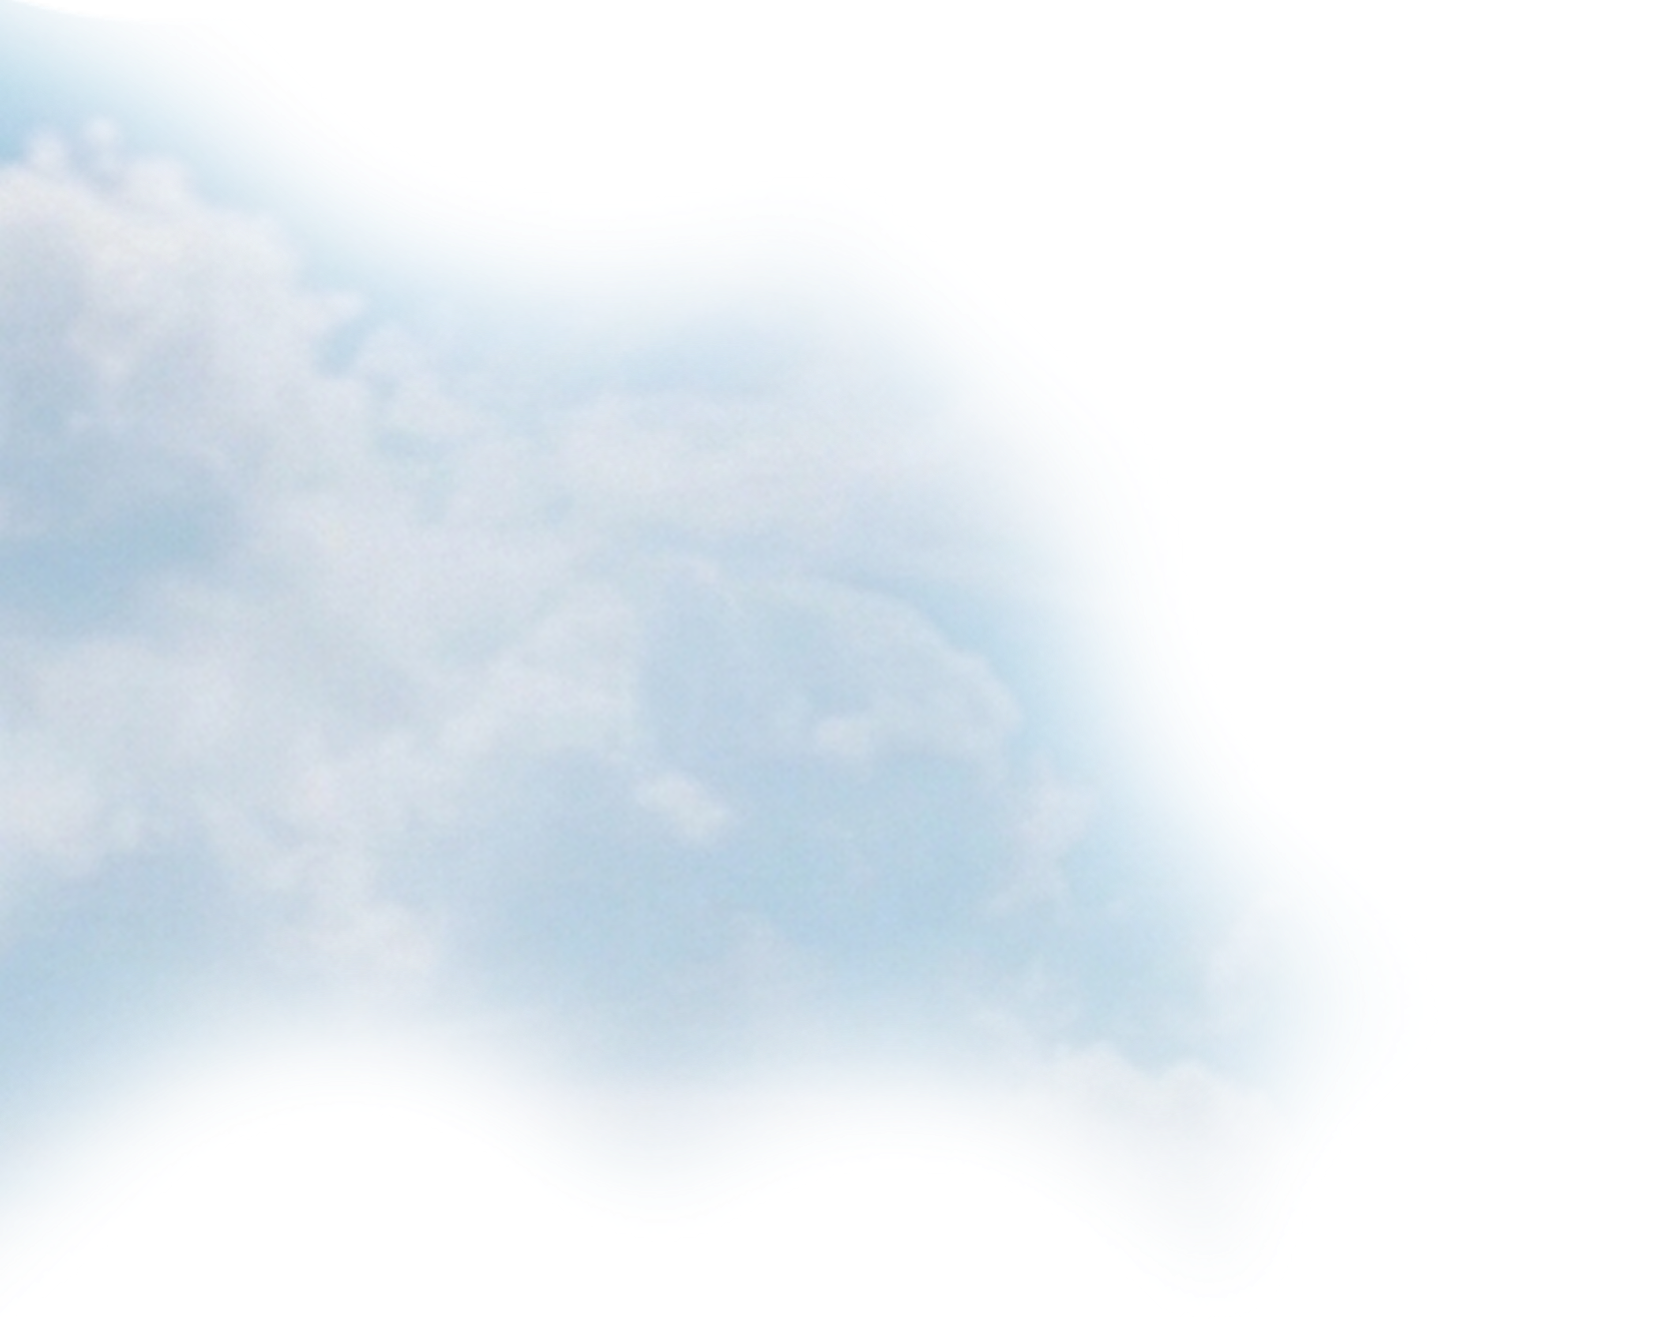
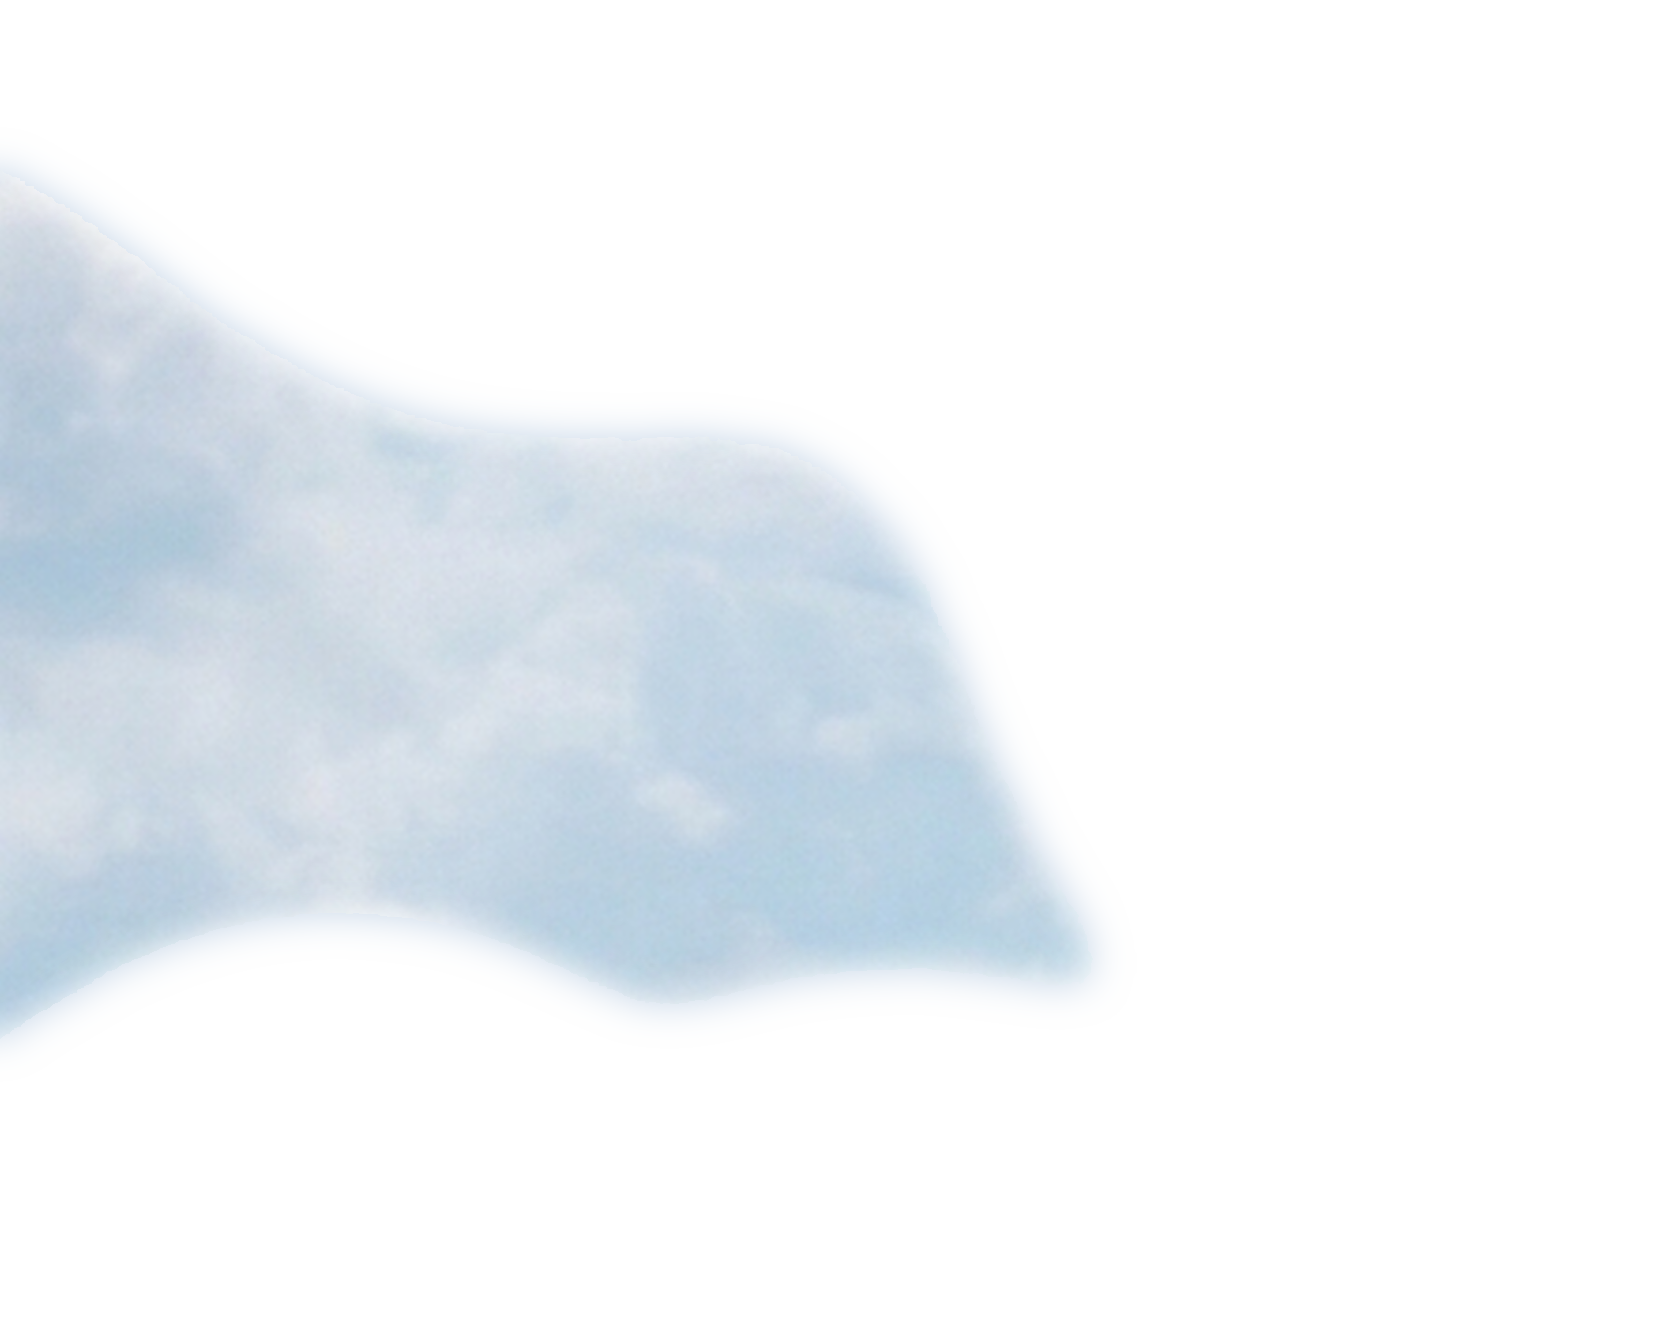
Fix duplicate video audio, rebuild mobile video connector, clean cloud edge
- OneVideoSection: fix a real bug where both the mobile and desktop
  VideoPlayer stayed mounted (just CSS-hidden), so pressing play spun up
  two YouTube iframes at once. Now only one mounts, picked via matchMedia.
- OneVideoSection mobile: replace the straight-line connector with a true
  vertical mirror of the desktop's rounded trunk-and-fork SVG (same
  quarter-turn curves, drop-shadow dots, flowing animation), uniformly
  scaled to the actual column width via ResizeObserver.
- Comparison/Pricing: top-align bullet icons against wrapped 2-line text
  instead of centering them between the lines.
- Cleaned the hard, fringed alpha edge on cloud-corner.png so it fades
  smoothly into the sky gradient instead of showing a visible seam.

Changed region(s): [[0.0, 0.0, 0.7766, 0.9014]]

diff --git a/src/components/OneVideoSection.jsx b/src/components/OneVideoSection.jsx
@@ -1,4 +1,4 @@
-import { useState } from 'react'
+import { useEffect, useRef, useState } from 'react'
 import { motion } from 'framer-motion'
 import Reveal from './Reveal'
 import clip1 from '../assets/images/process/clip-1.mp4'
@@ -59,9 +59,134 @@ const mobileClips = [
   { src: clip3, poster: poster3 },
 ]
 
-// Mirrors the desktop trunk-then-fork connector, drawn in percentage units so it
-// scales with the mobile grid's width regardless of viewport (grid-cols-3, gap-4).
-const MOBILE_FORK_PATHS = ['M50,0 L16.7,44', 'M50,0 L50,44', 'M50,0 L83.3,44']
+// Vertical mirror of the desktop trunk-then-fork connector: same rounded-step
+// geometry, with the trunk axis (x on desktop) and spread axis (y on desktop)
+// swapped so it reads top-to-bottom instead of left-to-right. Built at a fixed
+// design width/height, then uniformly scaled to fit whatever width the mobile
+// column actually renders at (see MobileConnector's ResizeObserver).
+const M_CARD_W = 140
+const M_CARD_H = (M_CARD_W * 16) / 9
+const M_GAP = 20
+
+const M_ORIGIN_Y = 0
+const M_BADGE_Y = M_ORIGIN_Y + 50
+const M_SPLIT_Y = M_BADGE_Y + 50
+const M_SIDE_END_Y = M_SPLIT_Y + 40
+const M_MID_END_Y = M_SIDE_END_Y + M_CARD_H + M_GAP
+
+const M_OFFSET = 180
+const M_CENTER_X = M_CARD_W / 2 + M_OFFSET + 10
+const M_LEFT_X = M_CENTER_X - M_OFFSET
+const M_RIGHT_X = M_CENTER_X + M_OFFSET
+
+const M_DESIGN_W = M_CENTER_X * 2
+const M_DESIGN_H = M_MID_END_Y + M_CARD_H + 20
+
+const mTrunkPath = `M${M_CENTER_X},${M_ORIGIN_Y} L${M_CENTER_X},${M_MID_END_Y}`
+const mLeftPath = `M${M_CENTER_X},${M_SPLIT_Y - 15} Q${M_CENTER_X},${M_SPLIT_Y} ${M_CENTER_X - 15},${M_SPLIT_Y} L${M_LEFT_X + 15},${M_SPLIT_Y} Q${M_LEFT_X},${M_SPLIT_Y} ${M_LEFT_X},${M_SPLIT_Y + 15} L${M_LEFT_X},${M_SIDE_END_Y}`
+const mRightPath = `M${M_CENTER_X},${M_SPLIT_Y - 15} Q${M_CENTER_X},${M_SPLIT_Y} ${M_CENTER_X + 15},${M_SPLIT_Y} L${M_RIGHT_X - 15},${M_SPLIT_Y} Q${M_RIGHT_X},${M_SPLIT_Y} ${M_RIGHT_X},${M_SPLIT_Y + 15} L${M_RIGHT_X},${M_SIDE_END_Y}`
+
+const mBranches = [mTrunkPath, mLeftPath, mRightPath]
+
+const mClips = [
+  { x: M_LEFT_X, y: M_SIDE_END_Y, z: 10 },
+  { x: M_CENTER_X, y: M_MID_END_Y, z: 20 },
+  { x: M_RIGHT_X, y: M_SIDE_END_Y, z: 10 },
+]
+
+function MobileConnector({ mobileClips }) {
+  const wrapperRef = useRef(null)
+  const [scale, setScale] = useState(0)
+
+  useEffect(() => {
+    const el = wrapperRef.current
+    if (!el) return
+    const ro = new ResizeObserver(([entry]) => {
+      setScale(entry.contentRect.width / M_DESIGN_W)
+    })
+    ro.observe(el)
+    return () => ro.disconnect()
+  }, [])
+
+  return (
+    <div
+      ref={wrapperRef}
+      className="relative w-full max-w-[520px]"
+      style={{ height: M_DESIGN_H * scale }}
+    >
+      <div
+        className="absolute left-0 top-0"
+        style={{ width: M_DESIGN_W, height: M_DESIGN_H, transform: `scale(${scale})`, transformOrigin: 'top left' }}
+      >
+        <svg
+          className="absolute inset-0 h-full w-full"
+          viewBox={`0 0 ${M_DESIGN_W} ${M_DESIGN_H}`}
+          fill="none"
+        >
+          <defs>
+            <filter id="m-dot-shadow" x="-100%" y="-100%" width="300%" height="300%">
+              <feDropShadow dx="0" dy="1" stdDeviation="1.5" floodColor="#0f172a" floodOpacity="0.18" />
+            </filter>
+          </defs>
+
+          {mBranches.map((path, i) => (
+            <path key={`m-base-${i}`} d={path} stroke="#e2e8f0" strokeWidth="1" />
+          ))}
+
+          <circle cx={M_LEFT_X} cy={M_SIDE_END_Y} r="5" fill="white" stroke="#e2e8f0" strokeWidth="1" filter="url(#m-dot-shadow)" />
+          <circle cx={M_CENTER_X} cy={M_MID_END_Y} r="5" fill="white" stroke="#e2e8f0" strokeWidth="1" filter="url(#m-dot-shadow)" />
+          <circle cx={M_RIGHT_X} cy={M_SIDE_END_Y} r="5" fill="white" stroke="#e2e8f0" strokeWidth="1" filter="url(#m-dot-shadow)" />
+        </svg>
+
+        {mBranches.map((path, i) => (
+          <span
+            key={`m-dot-${i}`}
+            className="flow-dot"
+            style={{ offsetPath: `path('${path}')`, animationDelay: `${i}s` }}
+          />
+        ))}
+
+        <div
+          className="glass-soft absolute flex -translate-x-1/2 -translate-y-1/2 items-start rounded-[28px] p-1"
+          style={{ left: M_CENTER_X, top: M_BADGE_Y }}
+        >
+          <span className="whitespace-nowrap rounded-3xl bg-white px-4 py-3 text-base font-medium text-[#0F172A] shadow-[inset_0_1px_5px_0_rgba(255,255,255,0.25)]">
+            3 days - 3 clips
+          </span>
+        </div>
+
+        {mClips.map((pos, i) => (
+          <div
+            key={i}
+            className="absolute -translate-x-1/2"
+            style={{ left: pos.x, top: pos.y, width: M_CARD_W, zIndex: pos.z }}
+          >
+            <motion.div
+              initial={{ opacity: 0, scale: 0.85 }}
+              whileInView={{ opacity: 1, scale: 1 }}
+              viewport={{ once: true, amount: 0.3 }}
+              transition={{ duration: 0.5, delay: 0.15 + i * 0.1, ease: [0.16, 1, 0.3, 1] }}
+              className="glass-soft overflow-hidden rounded-[19px] p-1 shadow-lg"
+            >
+              <div className="aspect-[9/16] overflow-hidden rounded-[15px] bg-slate-600">
+                <video
+                  src={mobileClips[i].src}
+                  poster={mobileClips[i].poster}
+                  muted
+                  loop
+                  autoPlay
+                  playsInline
+                  preload="none"
+                  className="h-full w-full object-cover"
+                />
+              </div>
+            </motion.div>
+          </div>
+        ))}
+      </div>
+    </div>
+  )
+}
 
 function VideoPlayer({ playing, setPlaying, className = '' }) {
   return (
@@ -106,6 +231,16 @@ function VideoPlayer({ playing, setPlaying, className = '' }) {
 
 export default function OneVideoSection() {
   const [playing, setPlaying] = useState(false)
+  const [isDesktop, setIsDesktop] = useState(
+    () => typeof window !== 'undefined' && window.matchMedia('(min-width: 1024px)').matches
+  )
+
+  useEffect(() => {
+    const mql = window.matchMedia('(min-width: 1024px)')
+    const onChange = (e) => setIsDesktop(e.matches)
+    mql.addEventListener('change', onChange)
+    return () => mql.removeEventListener('change', onChange)
+  }, [])
 
   return (
     <section className="relative z-10 mx-auto max-w-[1200px] px-6 pb-[160px]">
@@ -123,77 +258,19 @@ export default function OneVideoSection() {
       </Reveal>
 
       {/* Mobile / tablet: video connected to clips via branching lines, matching desktop */}
-      <Reveal delay={0.1} y={32} className="mt-4 flex flex-col items-center lg:hidden">
+      {!isDesktop && (
+      <Reveal delay={0.1} y={32} className="mt-4 flex flex-col items-center">
         <VideoPlayer playing={playing} setPlaying={setPlaying} className="max-w-[520px]" />
-
-        <svg viewBox="0 0 10 32" preserveAspectRatio="none" className="h-8 w-2.5" fill="none">
-          <path d="M5,0 L5,32" stroke="#e2e8f0" strokeWidth="1" />
-          <circle
-            r="1.4"
-            fill="#4f46e5"
-            className="flow-dot-path"
-            style={{ offsetPath: "path('M5,0 L5,32')" }}
-          />
-        </svg>
-
-        <div className="glass-soft flex items-start rounded-[28px] p-1">
-          <span className="whitespace-nowrap rounded-3xl bg-white px-4 py-3 text-base font-medium text-[#0F172A] shadow-[inset_0_1px_5px_0_rgba(255,255,255,0.25)]">
-            3 days - 3 clips
-          </span>
-        </div>
-
-        <svg
-          viewBox="0 0 100 44"
-          preserveAspectRatio="none"
-          className="h-11 w-full max-w-[520px]"
-          fill="none"
-        >
-          {MOBILE_FORK_PATHS.map((path, i) => (
-            <path key={`base-${i}`} d={path} stroke="#e2e8f0" strokeWidth="1" />
-          ))}
-          {MOBILE_FORK_PATHS.map((path, i) => (
-            <circle
-              key={`dot-${i}`}
-              r="1.4"
-              fill="#4f46e5"
-              className="flow-dot-path"
-              style={{ offsetPath: `path('${path}')`, animationDelay: `${i}s` }}
-            />
-          ))}
-        </svg>
-
-        <div className="grid w-full max-w-[520px] grid-cols-3 gap-4">
-          {mobileClips.map((clip, i) => (
-            <motion.div
-              key={i}
-              initial={{ opacity: 0, scale: 0.85 }}
-              whileInView={{ opacity: 1, scale: 1 }}
-              viewport={{ once: true, amount: 0.3 }}
-              transition={{ duration: 0.5, delay: 0.15 + i * 0.1, ease: [0.16, 1, 0.3, 1] }}
-              className="glass-soft overflow-hidden rounded-[19px] p-1 shadow-lg"
-            >
-              <div className="aspect-[9/16] overflow-hidden rounded-[15px] bg-slate-600">
-                <video
-                  src={clip.src}
-                  poster={clip.poster}
-                  muted
-                  loop
-                  autoPlay
-                  playsInline
-                  preload="none"
-                  className="h-full w-full object-cover"
-                />
-              </div>
-            </motion.div>
-          ))}
-        </div>
+        <MobileConnector mobileClips={mobileClips} />
       </Reveal>
+      )}
 
       {/* Desktop: video connected to clips via branching lines */}
+      {isDesktop && (
       <Reveal
         delay={0.1}
         y={32}
-        className="mt-8 hidden items-center justify-start gap-10 lg:flex"
+        className="mt-8 flex items-center justify-start gap-10"
       >
         <VideoPlayer playing={playing} setPlaying={setPlaying} className="max-w-[520px]" />
 
@@ -270,6 +347,7 @@ export default function OneVideoSection() {
           ))}
         </div>
       </Reveal>
+      )}
     </section>
   )
 }

diff --git a/src/components/PricingSection.jsx b/src/components/PricingSection.jsx
@@ -84,7 +84,7 @@ export default function PricingSection() {
               {autopilotFeatures.map((f) => (
                 <li
                   key={f}
-                  className="flex items-center gap-2 text-base text-slate-700 lg:whitespace-nowrap"
+                  className="flex items-start gap-2 text-base text-slate-700 lg:whitespace-nowrap"
                 >
                   <img src={circleCheck} alt="" className="h-4 w-4 shrink-0" />
                   {f}
@@ -134,7 +134,7 @@ export default function PricingSection() {
               {enterpriseFeatures.map((f) => (
                 <li
                   key={f}
-                  className="flex items-center gap-2 text-base text-slate-700 lg:whitespace-nowrap"
+                  className="flex items-start gap-2 text-base text-slate-700 lg:whitespace-nowrap"
                 >
                   <img src={circleCheck} alt="" className="h-4 w-4 shrink-0" />
                   {f}

diff --git a/src/components/ComparisonSection.jsx b/src/components/ComparisonSection.jsx
@@ -101,7 +101,7 @@ export default function ComparisonSection() {
                   {card.points.map((point) => (
                     <li
                       key={point}
-                      className="flex items-center gap-2 text-base text-slate-700"
+                      className="flex items-start gap-2 text-base text-slate-700"
                     >
                       <img src={card.icon} alt="" className="h-4 w-4 shrink-0" />
                       {point}